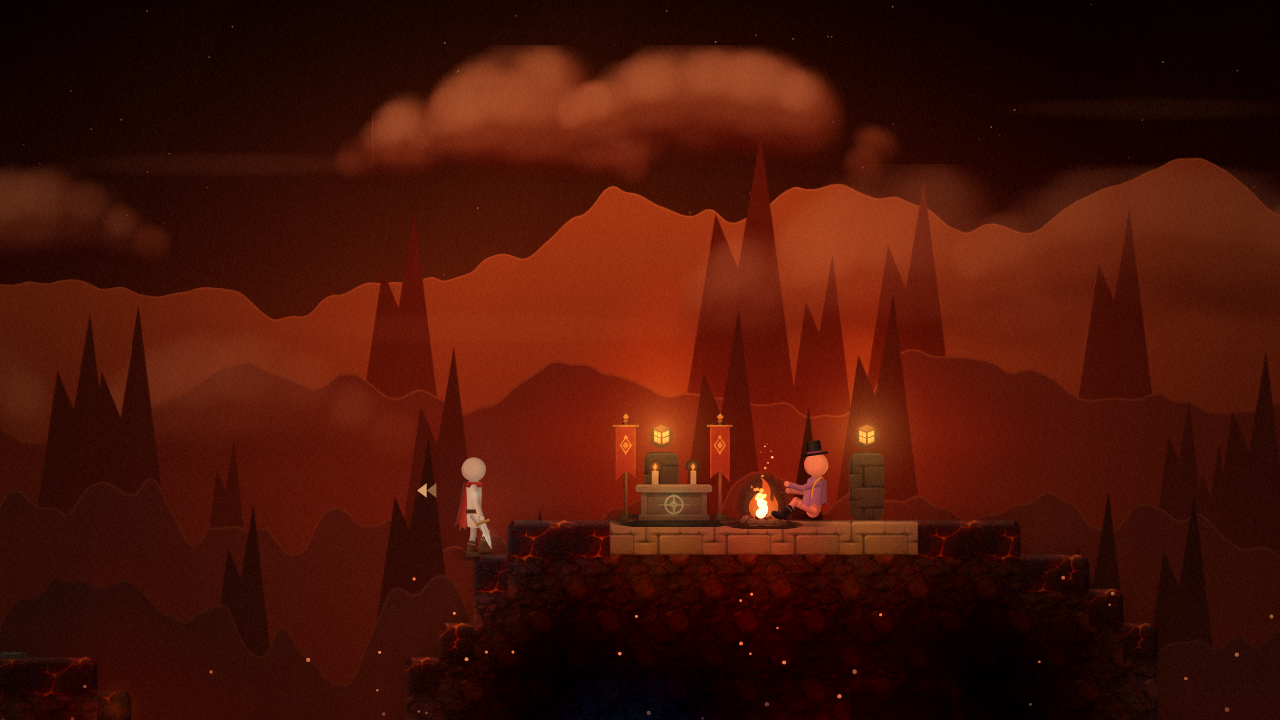
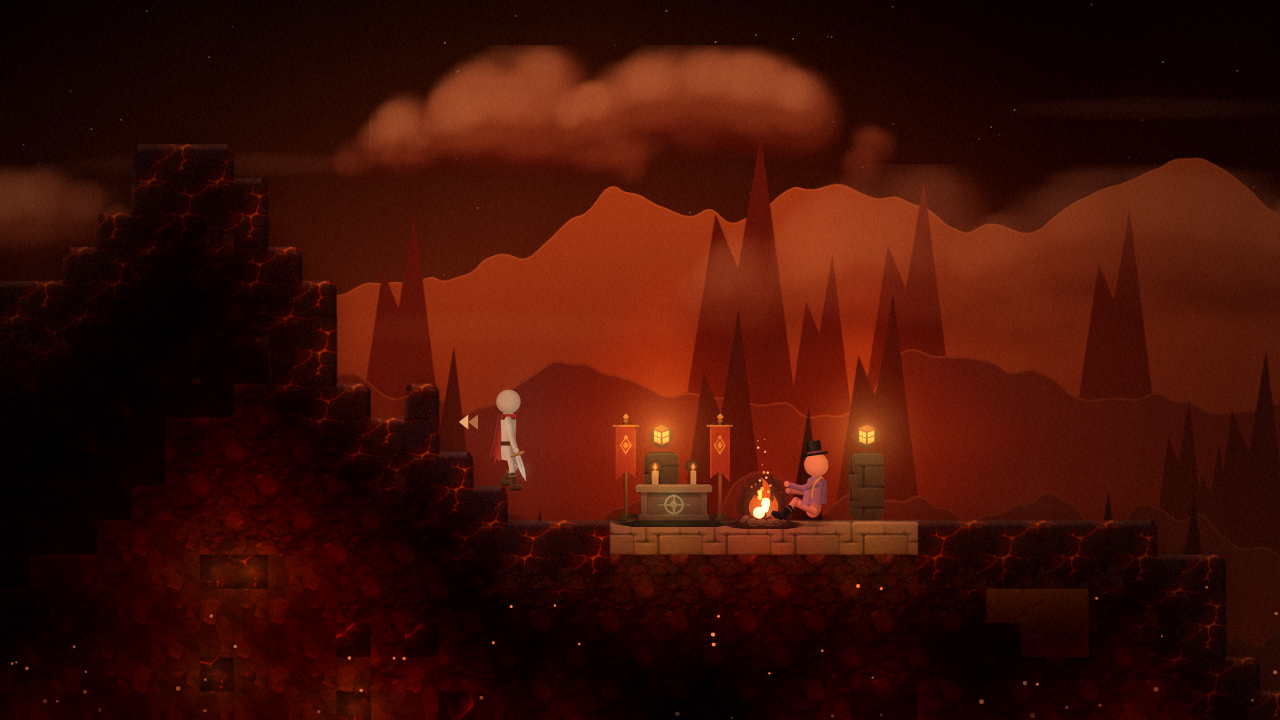
Surge fixes, bot tuning, README and sheets for round 7
- Surges open only in the open (not deep in caves) at a spot with standing room and a clear line to you;
  Hollows that cannot reach you within 30 s come apart so no wave waits forever; the banner no longer
  reappears after a surge clears
- Playthrough bot fights what is close or in its way instead of chasing Hollows back the way it came
- README: the painted prologue, action (surges, combos, Rift Trials), levels and perks, towns, the guide,
  climbing and swings, turf rules, painted chests, true reset; new test scenarios; sheets regenerated

Claude-Session: https://claude.ai/code/session_01XKnRKbjd3Wa5EXuRoQ6FVp

diff --git a/js/game/surges.js b/js/game/surges.js
@@ -24,6 +24,9 @@ export class Surges {
     if (g.rift && g.rift.active) return false;
     if (g.towns && g.towns.safeAt && g.towns.safeAt(p.x)) return false;
     if (this.game.world.shrineNear && this.game.world.shrineNear(Math.floor(p.x / TILE)) !== null) return false;
+    // surges happen in the open, not deep in the caves where the rift could open inside the rock
+    const W = this.game.world, tx = Math.floor(p.x / TILE);
+    if (Math.floor(p.y / TILE) > W.surface(tx) + 4) return false;
     return true;
   }
   update(dt) {
@@ -50,11 +53,14 @@ export class Surges {
       if (s.queue.length && s.spawnT <= 0) { s.spawnT = 0.32; this.spawnOne(s.queue.shift()); }
       s.alive = s.alive.filter(e => !e.removed && e.mode !== 'dead');
       const waveT = s.t - s.waveAt;
+      // any that cannot reach you after a while come apart (no wave waits forever on a Hollow stuck in a wall)
+      if (waveT > 30) for (const e of s.alive) if (Math.hypot(e.c.x - p.x, e.c.y - p.y) > 420) { e.removed = true; g.fx.burst(e.c.x, e.c.y - 40, { n: 10, speed: 140, col: '#ffffff', col1: '#ff6a5a', add: true, life: 0.5, size: 2 }); }
       if (!s.queue.length && (s.alive.length === 0 || (s.alive.length <= 1 && waveT > 8) || waveT > 22)) {
         if (s.wave >= s.waves) { if (s.alive.length === 0) this.clear(); }
         else { s.wave++; this.startWave(); }
       }
     }
+    if (this.s !== s) return;   // it just cleared or closed: leave the banner hidden
     if (g.ui && g.ui.surgeHud) g.ui.surgeHud(s.state === 'warn' ? 'A rift is opening' : `Hollow surge · wave ${s.wave}/${s.waves}`, s.state === 'wave' ? s.alive.length + s.queue.length : null, s.state);
   }
   // pick a spot a few blocks to one side with ground under it
@@ -64,7 +70,11 @@ export class Surges {
     for (const side of Math.random() < 0.5 ? [-1, 1] : [1, -1]) {
       for (const d of [260, 200, 330, 160]) {
         const x = p.x + side * d, gy = W.groundBelow(x, p.y - 160, 420);
-        if (gy !== null && Math.abs(gy - p.y) < 220) { spot = { x, y: gy }; break; }
+        // standing room, and a clear line from the rift to you (so the Hollows can reach you)
+        if (gy === null || Math.abs(gy - p.y) > 220) continue;
+        const roomy = !W.solidAt(x, gy - 40) && !W.solidAt(x, gy - 80);
+        const clear = !W.raycast(x, gy - 40, p.x, p.y - 40);
+        if (roomy && clear) { spot = { x, y: gy }; break; }
       }
       if (spot) break;
     }

diff --git a/README.md b/README.md
@@ -14,15 +14,15 @@ Before the world, there was a needle and a thread. The Seamstress stitched the l
 
 No loading screen, no menu. The game opens on a short, skippable prologue (any key after a moment, or Esc):
 
-1. **Black.** A heartbeat and the first line: the Seamstress stitched the land awake, and dolls to walk it.
-2. **The seed of light** drifts down through layered clouds, flaring as it falls.
-3. **The five Wardens** stand on a dark horizon, each a silhouette with its own glow and name, while the second line explains how her needles shut every gate.
+1. **Black.** A heartbeat, embers rising, and the first line: before the world had edges, there was a needle and a thread.
+2. **The Loom-Cathedral at dusk.** A painted vista in four parallax layers: a ruin of needle spires with light through their eyes, broken threads strung between them, a cracked rose window, tattered banners, fog in the nave, crows wheeling, and the seed of light falling toward it.
+3. **The five Wardens,** one painted portrait each with a slow push-in and a name card: the Hollow Warden, the Glass Widow, the Unmade Heart, the Pyre Knight, the Still Queen.
 4. **The fall.** A burst of light, and you are plummeting through a dusk sky, steering to catch motes of light (glimmer) while the last lines are told over the wind.
 5. **The impact and getting up.** Slow motion, white-out, a shockwave across the meadow; Thread climbs out of your chest (*"Up. You have to get up."*), the doll pushes onto a knee and stands, a Warden roars far away and the title card lands.
 6. **A short tutorial** (a compact banner with a progress ring, the keys or touch button to use, the matching touch button pulsing; skippable): walk, jump, take the blade from the stone, strike a glowing training doll, dash, break a block, place it, then turn timber into planks in the satchel. Then the first Hollow claws out of the ground.
 7. **A clear chain of goals** (always shown top left, and Thread flies ahead to point the way): reach the shrine, rest, gather Threads of Light, then face the Hollow Warden, make a home, walk on.
 
-The first boss is about 220 tiles away and its gate stays sealed until you carry enough Threads of Light, so the opening is exploration, not a boss rush. A warden's cinematic intro plays only the first time you meet it; later attempts get a short name card and the fight starts at once.
+The tutorial never really ends: it lets go gradually (see The guide). The first boss is about 220 tiles away and its gate stays sealed until you carry enough Threads of Light, so the opening is exploration, not a boss rush. A warden's cinematic intro plays only the first time you meet it; later attempts get a short name card and the fight starts at once.
 
 Returning players drop straight back where they were. Esc skips the opening.
 
@@ -76,9 +76,68 @@ Every doll (you, Hollows, keepers, remote players, wardens' bodies) is an animat
 - **Procedural animation.** The gait is distance-driven so feet never skate, feet land on the real terrain with two-bone IK, landings squash, double jumps flip. Walking down stairs keeps the feet on the ground (no falling pose).
 - **Attacks** are keyframed arcs per weapon (wind-up, strike, follow-through) with the body leaning and stepping into the blow; the blade's real position is what hits.
 - **Hits and falls** are animated states: a flinch, knockback that tumbles you through the air, lying down, getting up.
-- **Ledge mantle:** jump at a wall 2-3 blocks high and the doll grabs the edge, pulls up, swings a knee over and stands, then eases back into control.
-- **Crawl:** hold Ctrl or C to drop onto hands and knees and slip through one-block gaps; you can't stand up under a ceiling.
+- **Ledge mantle:** jump at a wall 2-3 blocks high and both hands catch the lip and hang, the feet scrabble on the wall, the arms haul the chest up past the edge, a knee swings over and the doll stands.
+- **Ladders:** hand over hand on the rungs with the knees coming up under the body; still when you stop.
+- **Crawl:** hold Ctrl or C to drop onto hands and knees and slip through one-block gaps; a one-block step inside a tunnel is climbed on all fours; you can't stand up under a ceiling.
 - Capes are still cloth chains.
+
+## Action: surges, combos, Rift Trials
+
+The game is built to keep you fighting:
+
+- **Hollows come often and in packs,** see further, remember you, and attack more often. Two kinds join the husks and brutes: the **lancer** (a telegraphed dash-thrust; a red line shows its path) and the **slinger** (keeps its distance and lobs stones that land where you stand).
+- **Hollow surges.** Every minute or so in the open, a rift tears open nearby. Waves pour out and the last wave brings a brute. Clear them (fast, for a bonus) and the rift leaves a chest; walk away and it closes. A banner shows the wave and how many are left. Surges never happen in towns, at gates, in menus or in the tutorial.
+- **Combos and streaks.** Every hit adds to a combo that multiplies glimmer and experience. Kills close together call out Double, Triple, Rampage, Unstoppable, Undone. Taking a hit halves the combo.
+- **Rift Trials** (menu, Journey, or the training yard in any town): a sealed arena in a world of its own. Endless waves come from tears at both ends, a champion every fifth wave, a boon to choose every third (Fury, Mend, Quickstep, Cinder, Seamguard, Vigil). When you fall you see wave, kills, best combo and score, then go Again or Leave. The world you left is saved first and untouched.
+
+## Levels and perks
+
+- Experience from everything: kills (scaled by the enemy's level and your combo), surges, quests, commissions, puzzles, camps, chests, woken dolls, nests, new towns, wardens. The inn's Well Rested bonus adds half again.
+- **Level up:** a slow-motion ring and a card. Damage grows every level, a vessel every fourth level (up to ten), and every third level you choose one of three **perks**: Keen Edge, Heavy Hand, Swift Strike, Long Reach, Riposte, Iron Seam, Second Thread, Bloodthread, Overdrive, Fleet, Stormstep, Ember Soul, Lodestone, Scholar, Thread Ward.
+- **Zone levels:** the further from the first fire, the stronger the Hollows. Thread warns you when a zone outclasses you. The Character tab in the menu shows your level, experience, damage, vessels, the zone level here, perks to pick and the ones you have. An XP bar sits under the vessels.
+
+## Towns
+
+One town in every biome, on level ground behind gate arches: the first just left of the start, the next right after the first gate. Each has a cobbled street, seven buildings made of real tiles (walk inside in front of the back walls, run along the solid roofs), and stations to use (forge, workbench, loom).
+
+- **General store:** buy blocks and parts; sell raw materials for glimmer.
+- **Smithy:** temper the weapon you carry up to +5 (12% more damage per step) with glimmer, gilt and crystal.
+- **Tailor:** your looks.
+- **Alchemist:** draughts, flares, charges, infusions.
+- **Inn:** rest, save, and Well Rested.
+- **Notice board:** bounties (undo Hollows, clear a surge, fell brutes); claim them at any board.
+- **Waystone:** travel between towns you have found.
+- **Training yard:** the gate to the Rift Trials.
+
+Townsfolk walk the street and talk, and shopkeepers turn to you. Hollows never come in. All of it is drawn in code as a placeholder until painted art arrives: every building and prop checks for `assets/town/<name>.png` first. `art/sheets/towns.png` is the rough sheet of what to paint, with sizes.
+
+## The guide
+
+The tutorial teaches the basics, then lets go gradually instead of stopping:
+
+- **Lessons wait for the moment they are useful:**
+  - a Hollow winding up: parry;
+  - hurt with breath full: mend;
+  - a brute or a staggered foe: charge;
+  - a ledge: mantle;
+  - a ladder: climb;
+  - a low gap: crawl;
+  - stuck in a pit: dig out;
+  - the dark: flare;
+  - a workbench with something to make;
+  - an untracked quest;
+  - a perk to pick;
+  - a surge;
+  - a growing combo.
+- **How a lesson shows:** a small chip with the keys or touch action, and Thread says it the first times. Each success pushes the next showing further away and shrinks the chip; after a few successes it never comes back.
+- **Live tips from Thread:**
+  - low health with Hollows near;
+  - a crowd;
+  - zones that outclass you, or no longer challenge you;
+  - standing around lost (Thread points the way);
+  - ore enough to forge;
+  - a town ahead.
+- **The objective panel** drops its how-to line from level 8, unless you stand around lost.
 
 ## Combat and weapons
 
@@ -95,6 +154,7 @@ Five weapons, each with its own combo chain, charged heavy attack, numbers and d
 - **Combos** with input buffering; **hold** to charge a heavy; **parry** by striking just as a blow lands (slow-mo flash, the attacker staggers, a counter window opens); **launcher** up-strike and air juggles.
 - **Poise.** Enemies have a stagger bar; heavy weapons break it faster. **Finishers** trigger on staggered or nearly beaten foes (and sometimes on a combo ender): slow motion, a camera punch-in, extra sparks and hit-stop.
 - **Infusions** from the Forge: Ember (hits burn) and Frost (hits slow).
+- **Swings have elbows and wrists:** the weapon is cocked back over the shoulder with the elbow bent, the arm snaps straight through the strike, and the elbow folds again on the follow-through. The wrist lets the blade lead, lag and wrap past the body, the free arm counter-swings, and the body winds back then drives forward.
 - Every hit is weighted: hit-stop and shake by weapon, directional sparks, an impact flash on the enemy, haptic ticks on phones. Floating wisps telegraph longer and shoot slower than before.
 
 ## Quests and side content
@@ -104,11 +164,11 @@ Five weapons, each with its own combo chain, charged heavy attack, numbers and d
 - **World puzzles** (`js/game/sites.js`): brazier rings (light them all before the first goes out), pressure plates (stand on one, put a block on the other), Thread races (fly through the rings before they fade). Each opens a sealed chest.
 - **Hollow camps:** guards around a named elite with a shield or a brute chief, with health and poise nameplates, guarding loot.
 - **Tracking.** The Quests tab lists every quest; track one and a marker shows where to go (an edge-of-screen chevron with distance when it is off screen). Navigation can be turned off.
-- Opened chests linger a moment, then fade away.
+- Chests are the painted chest from the request sheet: the lid swings open on its hinge with light spilling out, then the chest fades away.
 
 ## The world
 
-- **Ground you can read.** Thick, uneven topsoil (the soil line rolls with the land, pockets reach into the rock, thin strata below), one layer of turf with a short ragged edge, and sloped **cave mouths** (with a painted rock arch over each tunnel) and ravines every so often so the caves can be walked into. Crystal and gilt ore are graded into their host rock.
+- **Ground you can read.** Thick, uneven topsoil (the soil line rolls with the land, pockets reach into the rock, thin strata below). Turf hangs down into the soil below it with a ragged edge (the turf-to-soil transition). The top layer is always turf: soil open to the sky becomes turf, soil beside turf turns too (sideways only), and soil you uncover greens a moment later. Wide, gentle **cave mouths** are plain open ground you walk straight into, and there are ravines now and then. Crystal and gilt ore are graded into their host rock.
 - **Endless and seeded** (`js/world/world.js`). Generated per 32x32 chunk, in both directions and downward without end. Caves, floating islands, crystal pillars, ice spikes, ember vents, ore veins, sand pockets, and each biome's painted tree from the materials sheet (round crowns, glass trees, giant mushrooms, dead trees, pines), rooted in the turf, leaning in the wind and away from anyone brushing past. Strike a trunk and chips fly and the crown shakes; a few hits (fewer with the hammer) and it topples, lands with a thump and leaves its timber in your satchel. Only your edits are saved; everything else regenerates identically.
 - **Five biomes** that cycle with distance and darken with each loop: the Pale Meadow, the Glass Wood, the Hollow Below, the Ember Reach and the Frost Spires. Each has its own palette, parallax silhouettes, ambient particles, colour grade and generative score.
 - **Boss gates.** Every boundary between biomes is an arena held by a warden. Three archetypes with stronger variants: the Hollow Warden and the Pyre Knight (giant ragdolls: slam waves, wall-stunning charges, leaps), the Glass Widow and the Still Queen (flying ragdolls: volleys, dives, summons, rings, icefall), and the Unmade Heart (a core wrapped in torn-up blocks: throws, pound, spin). Tier scales health and adds patterns; a second phase starts at half health.
@@ -135,6 +195,8 @@ The painted art comes from hand-made reference sheets, cut up by `tools/extract_
 
 In the world, sheet sprites are colour graded per biome (`gradedImg` in `js/art/images.js`) so they sit in its light. - `assets/req/`: the hand-painted request sheet, cut the same way: cave mouth, Hollow nest, satchel, ladder, platform, door, step, storage chest, workbench, forge, loom, and the item icons (draught, flare, blast charge, lamp, picks, charms). Stations stand in the world as these sprites; the icons appear in the satchel and hotbar (`js/art/itemart.js`). The torch keeps its code-drawn version (its painted halo could not be separated cleanly), and the interface frames on the sheet are matched in CSS.
 
+**Souls-grade detail.** A procedural painting kit (`js/art/brush.js`: bristle strokes, painterly fills, ragged silhouettes, fog banks, rim light, grain) paints the prologue's plates off screen, a few milliseconds per frame (`js/art/prologue.js`). Hollows and wardens are matte and worn (`js/art/grit.js`): a generated grime texture over every limb, bandage wraps, cracked masks running with ichor, torn cloth that sways, riveted scratched plates and chains.
+
 The blade in the stone has its painted light beam removed (`clean_bladestone`) and gets a soft additive shaft with drifting motes drawn in code instead; it stands on a level shelf.
 
 `js/art/images.js` loads them (pattern fills for tiles, sprites for props and icons). Characters are drawn in code to match the character reference (`js/art/doll.js`), matte with blank faces: round heads, scarves, belts and boots, cloaks and hoods, painted with soft shading and no outlines. Anything not on the sheets is still generated in code from the art bible (`js/art/paint.js`): key light from the upper left, rim light from behind.
@@ -148,7 +210,7 @@ The asset sheets in `art/sheets/` are rendered from that same code (so they alwa
 
 - **Sleek, no outlines.** Tiles are soft voxels with rounded exposed corners, a rim light on top faces and a shade underneath; tree canopies merge into one mass. Shape and depth come from coloured flood-fill lighting (sky light, lanterns, crystals, embers, your own soul glow) multiplied over the scene and upsampled smoothly.
 - **Cinematic.** Letterbox bars, serif title cards, biome cards, boss name cards, a warden looming on the horizon as you approach, slow motion and white-out on finishing blows, hit-stop and screen shake scaled by importance, a WebGL post pass with two-level bloom, grade, vignette, grain and a chromatic pulse on impacts.
-- **UI.** Glass panels, a minimal HUD (vessels, breath, glimmer, hotbar, a compass to the next gate; the boss bar only during a fight), typewriter dialogue as subtitles, a menu with a sliding tab line, staggered entrances and a Back button, and an Appearance tab with the doll turning on a lit pedestal. Painted clouds with lit tops and soft bases. Quality defaults to high with post-processing on.
+- **UI.** Glass panels, a minimal HUD (vessels, breath, level and XP, glimmer, hotbar, a compass to the next gate; the boss bar, without shadows, only during a fight; combo counter, surge banner, guide chip), typewriter dialogue as subtitles, a menu with a sliding tab line, staggered entrances and a Back button, and an Appearance tab with the doll turning on a lit pedestal. Painted clouds with lit tops and soft bases. Quality defaults to high with post-processing on.
 - Accessibility: toggles for screen shake, bright flashes, bloom and touch controls, three quality levels, and an automatic quality step-down if frames stay slow.
 
 ## Making the character yours
@@ -169,6 +231,7 @@ CrazyGames provides invites and rooms, not servers, so play is peer to peer over
 SDK v3 loaded async from `sdk.crazygames.com`, initialised with a timeout, and every call is guarded so the game runs the same anywhere. Uses `loadingStart/Stop`, `gameplayStart/Stop` (stopped while the menu is open or the tab is hidden), `happytime` on warden kills, the data module for saves (localStorage fallback), the settings listener for platform mute, the user module for the player's name, and the invite / room APIs above. Loading and gameplay events asked for before the SDK finishes initialising are replayed once it is ready.
 
 Ads (`ad.requestAd`):
+- Starting a new life (Menu, Settings) erases the save and every block you ever placed or broke.
 - **Rewarded, player's choice.** When you fall, Thread offers *Rise here* (a short ad, then you stand back up where you fell, boss fight and all) or *Wake at the shrine*. The reward is only given when the ad finished.
 - **Midgame, at a natural break.** Only while waking at a shrine after a fall (the screen is already dark), never in the first 3 minutes, at most once every 3 minutes, never while other players share your world.
 - While any ad plays the game is paused and silent, `gameplayStop` is sent, and everything is restored afterwards. A lost callback can't hang the game (90 s guard).
@@ -191,7 +254,11 @@ js/game/                game.js (loop, camera, render pipeline), actor.js, playe
                         lore, nests, Threads of Light), story.js (cinematics, tutorial, goals), thread.js,
                         items.js (items, recipes, stations), parts.js (doors, chests, stations), throwables.js,
                         progress.js (save, cosmetics, relics, recipes), fx.js, weapons.js (weapons, infusions),
-                        quests.js (quest chains, commissions, tracking), sites.js (puzzles, camps), trees.js (felling)
+                        quests.js (quest chains, commissions, tracking), sites.js (puzzles, camps), trees.js (felling),
+                        surges.js (rifts and waves), levels.js (XP, perks, zone levels), rift.js (Rift Trials),
+                        guide.js (lessons and tips), towns.js (towns, shops, bounties, waystones)
+js/world/townplan.js    the town layout, shared by the world stamp and the towns system
+js/art/brush.js, prologue.js, grit.js   painting kit, the painted prologue, worn Hollows
 js/art/                 images.js (sheet art loader), doll.js (characters), bg.js, paint.js, tex.js, props.js
 js/ui/                  ui.js (HUD, tutorial, journal, cards, dialog, menus, editor, terms), bag.js (satchel), touch.js
 assets/tex, props, icons, fx, trees, req   art cut from the reference sheets
@@ -222,6 +289,18 @@ node tools/shot.mjs uitour     # tutorial banner, menus, satchel and crafting (a
 node tools/shot.mjs fell       # fell a tree for timber
 node tools/shot.mjs artcheck   # painted stations, item icons, Hollow nest
 node tools/shot.mjs looks      # blade light, cave ore, Thread's trail
+node tools/shot.mjs turf       # no soil open to the sky; uncovered soil greens
+node tools/shot.mjs wipe       # a new life erases placed blocks too
+node tools/shot.mjs wake       # tapping fast through the wake-up keeps Thread in sync
+node tools/shot.mjs cfilm      # filmstrip: crawl (and up a step), ladder
+node tools/shot.mjs mfilm      # the ledge mantle, slowed down
+node tools/shot.mjs surge      # a rift opens, waves clear, a chest
+node tools/shot.mjs levels     # level-ups and a perk pick
+node tools/shot.mjs rift       # Rift Trials: waves, a boon, results, again, leave
+node tools/shot.mjs guide      # a lesson shows and is learned; the parry hint
+node tools/shot.mjs town       # a town: shop, inn, bounty, smith, waystone travel
+node tools/shot.mjs foes       # close look at the Hollows
+node tools/shot.mjs opening    # the painted prologue, shot by shot
 ```
 
 The `tools/` folder drives the real game in headless Chromium (Playwright):
